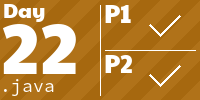
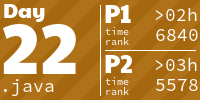
2024 22 half complete

diff --git a/src/main/java/fr/home/mikedev/aoc2024/Main22.java b/src/main/java/fr/home/mikedev/aoc2024/Main22.java
@@ -1,22 +1,33 @@
 package fr.home.mikedev.aoc2024;
 
 import java.io.BufferedReader;
+import java.util.ArrayList;
+import java.util.HashMap;
+import java.util.List;
+import java.util.Map;
 
 import fr.home.mikedev.common.MainDay;
 
 public class Main22 extends MainDay 
 {
-
+    //int size = 2154;
+    int size = 4;
+    long[] secrets = new long[size];
+    List<long[]> buyersPriceChanges;
+    
+    Map<String, Long> sequences;
+    
 	public Main22(String title, String year) {super(title, year, "22");}
 	
 	public void retrieveData()
 	{
-		String line = null;	
+		String line = null;
+		int i = 0;
 		try(BufferedReader reader = this.getReader())
 		{
             while((line = reader.readLine()) != null)
             {
-                log(line);
+                secrets[i++] = Long.parseLong(line);
             }
 		}
 		catch (Exception ex)
@@ -26,15 +37,97 @@ public class Main22 extends MainDay
 		}
 	}
 	
+	public void initData()
+	{
+	    buyersPriceChanges = new ArrayList<long[]>();
+	    sequences = new HashMap<String, Long>();
+	}
+	
 	public void doPart1()
 	{
 		retrieveData();
-		setResultPart1(0);
+		
+		long sum = 0;
+		for(int i = 0; i < size; i++)
+		{
+		    long newSecretNumber = secrets[i];
+		    for (int process = 0; process < 2000; process++)
+		    {
+		        
+    		    newSecretNumber = operation0(newSecretNumber);
+    		    newSecretNumber = operation1(newSecretNumber);
+    		    newSecretNumber = operation2(newSecretNumber);
+		    }
+		    sum += newSecretNumber;
+		}
+		setResultPart1(sum); //18261820068
 	}
 	
 	public void doPart2()
 	{
-		//retrieveData();
-	    setResultPart2(0);
+        initData();
+        
+        long sum = 0;
+        for(int i = 0; i < size; i++)
+        {
+            int iter = 2000;
+            long[] lastDigitsSecret = new long[iter+1];
+            long[] priceChanges = new long[iter];
+            long newSecretNumber = secrets[i];
+            String newSecretString = String.valueOf(newSecretNumber);
+            lastDigitsSecret[0] = Long.parseLong(newSecretString.substring(newSecretString.length()-1, newSecretString.length()));
+            
+            for (int process = 0; process < iter; process++)
+            {   
+                newSecretNumber = operation0(newSecretNumber);
+                newSecretNumber = operation1(newSecretNumber);
+                newSecretNumber = operation2(newSecretNumber);
+                newSecretString = String.valueOf(newSecretNumber);
+                
+                lastDigitsSecret[process+1] = Long.parseLong(newSecretString.substring(newSecretString.length()-1, newSecretString.length()));
+                if (process != 0) priceChanges[process] = lastDigitsSecret[process]-lastDigitsSecret[process-1];
+                else priceChanges[process] = 0;
+            }
+            log(newSecretNumber);
+            sum += newSecretNumber;
+            buyersPriceChanges.add(priceChanges);
+        }
+	    for (long[] c : buyersPriceChanges)
+	    {
+	        for (int i = 0; i < c.length; i++)
+	            System.out.print(c[i] + " ; ");
+	        log("######");
+	    }
+	    
+	    // Data are set, now getting each sequence of 4 before a positive number with at least 4 changes before
+	    // sequences  : index = list of 4 changes (the sequence to find)
+	    //              value = sum of values thourgh all buyers
+	    
+	    setResultPart2(sum);
 	}
+	
+	public long operation0(long secretNumber)
+	{
+	    return prune(mix(secretNumber, secretNumber*64));
+	}
+	
+	public long operation1(long secretNumber)
+    {
+        return prune(mix(secretNumber, secretNumber/32));
+    }
+	
+	public long operation2(long secretNumber)
+    {
+        return prune(mix(secretNumber, secretNumber*2048));
+    }
+	
+	public long mix(long secretNumber, long tempNumber)
+    {
+        return tempNumber ^ secretNumber;
+    }
+	
+	public long prune(long tempNumber)
+    {
+        return tempNumber % 16777216;
+    }
 }

diff --git a/README.md b/README.md
@@ -4,7 +4,7 @@
 
 <!-- AOC TILES BEGIN -->
 <h1 align="center">
-  2024 - 42 ⭐ - Java
+  2024 - 44 ⭐ - Java
 </h1>
 <a href="src/main/java/fr/home/mikedev/aoc2024/Main01.java">
   <img src=".aoc_tiles/tiles/2024/01.png" width="161px">
@@ -68,6 +68,9 @@
 </a>
 <a href="src/main/java/fr/home/mikedev/aoc2024/Main21.java">
   <img src=".aoc_tiles/tiles/2024/21.png" width="161px">
+</a>
+<a href="src/main/java/fr/home/mikedev/aoc2024/Main22.java">
+  <img src=".aoc_tiles/tiles/2024/22.png" width="161px">
 </a>
 <h1 align="center">
   2023 - 12 ⭐ - Java
